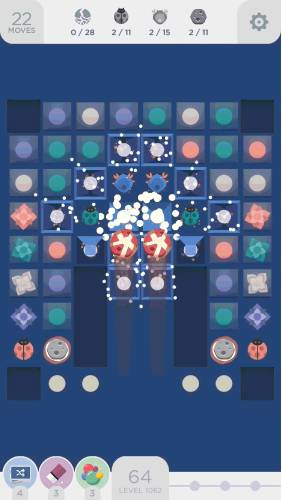
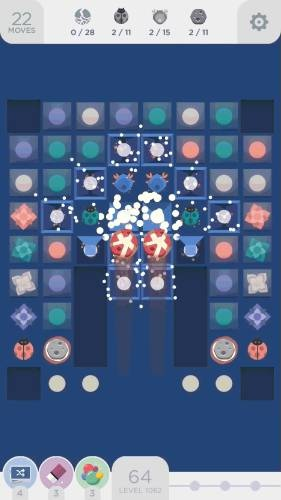
etc

diff --git a/art/index.html b/art/index.html
@@ -16,7 +16,7 @@
 
     <div id="content">
       <h1>clairemation's art</h1>
-      <h2>viewer v. 1.0</h2>
+      <h2>viewer v. 1.1.0</h2>
       <p id="updated">images updated 9/20/2025</p>
 
       <p id="instructions">Select category tags to narrow down image search. Select multiple tags to find images that match <em>all</em> of those tags. Select nothing to show all images. Click images to enlarge.</p>
